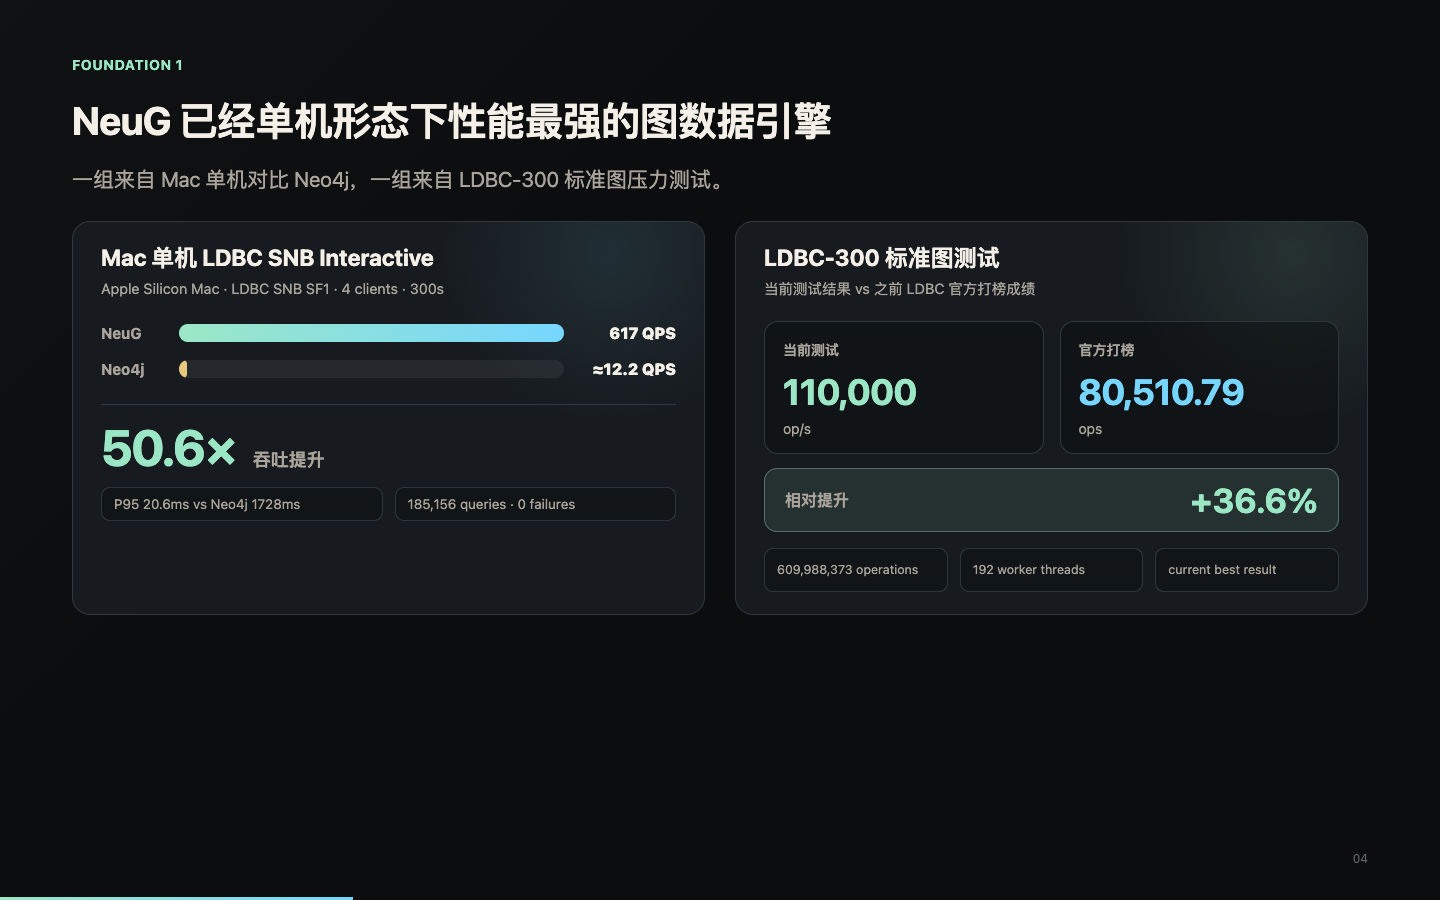
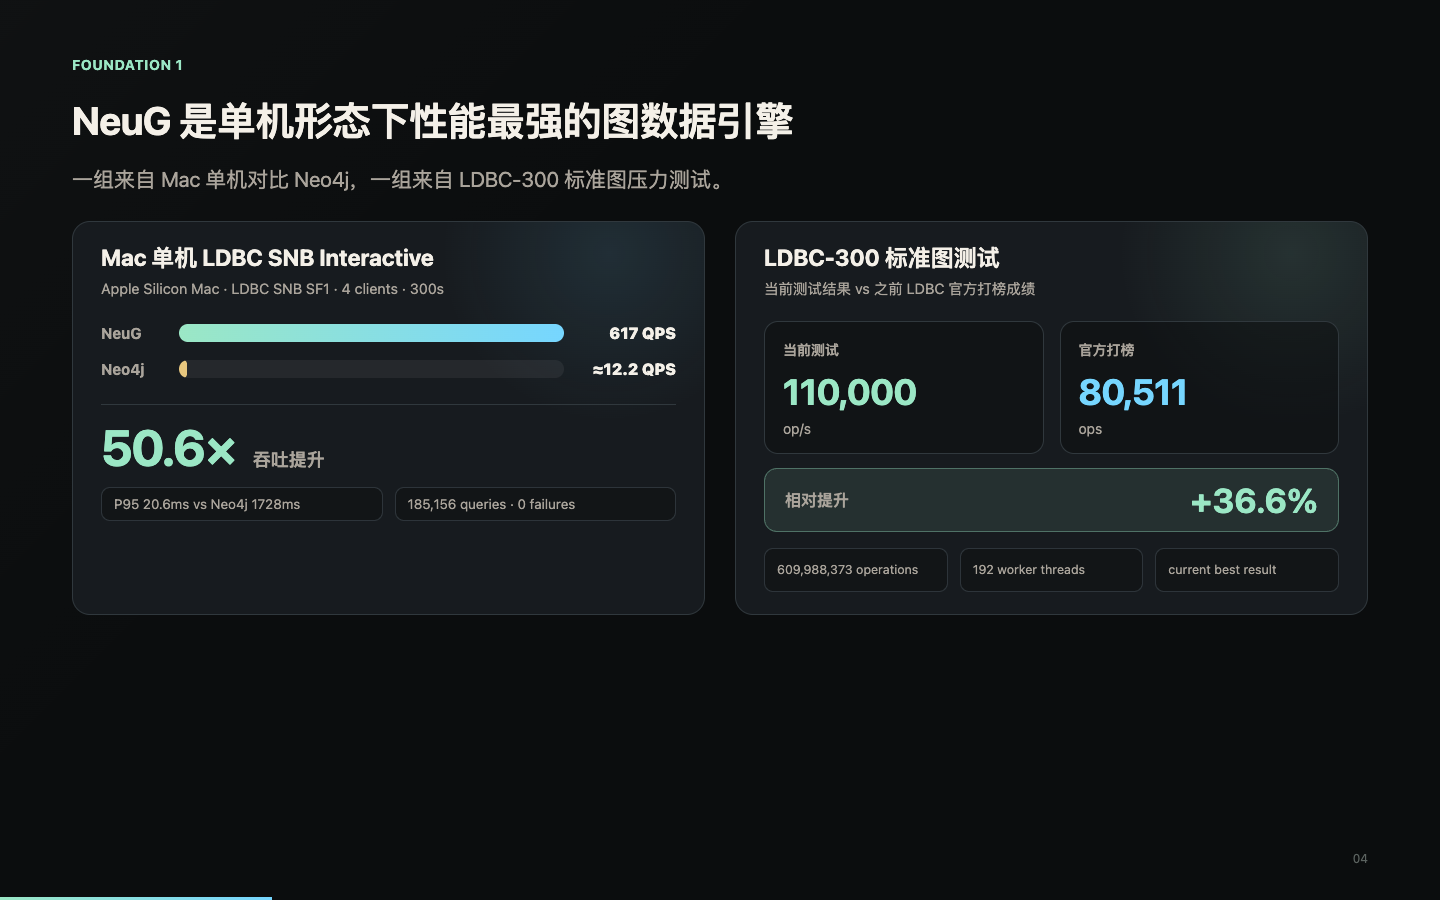
Round LDBC benchmark number in slides

Changed region(s): [[0.125, 0.0933, 0.5938, 0.1556], [0.8125, 0.4044, 0.875, 0.4667], [0.1875, 0.9956, 0.25, 1.0]]

diff --git a/slides/outputs/neug-llm-agent-graph-engine-slides.html b/slides/outputs/neug-llm-agent-graph-engine-slides.html
@@ -2785,7 +2785,7 @@
               </div>
               <div class="duel official">
                 <span>官方打榜</span>
-                <strong>80,510.79</strong>
+                <strong>80,511</strong>
                 <em>ops</em>
               </div>
             </div>

diff --git a/slides/variants/neug-blueprint/outputs/neug-blueprint-slides.html b/slides/variants/neug-blueprint/outputs/neug-blueprint-slides.html
@@ -3282,7 +3282,7 @@
               </div>
               <div class="duel official">
                 <span>官方打榜</span>
-                <strong>80,510.79</strong>
+                <strong>80,511</strong>
                 <em>ops</em>
               </div>
             </div>
